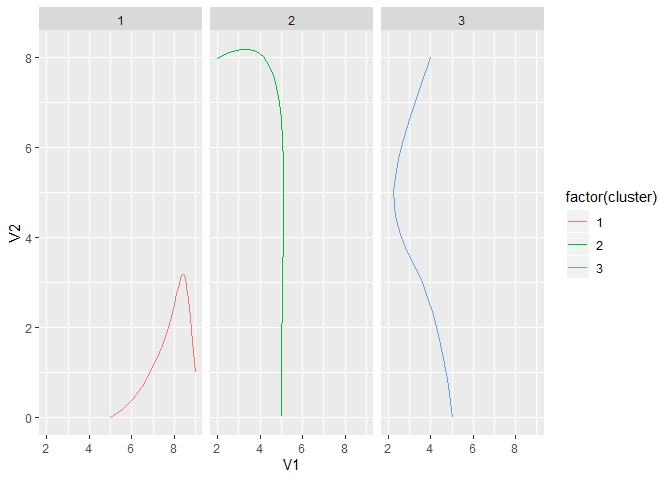
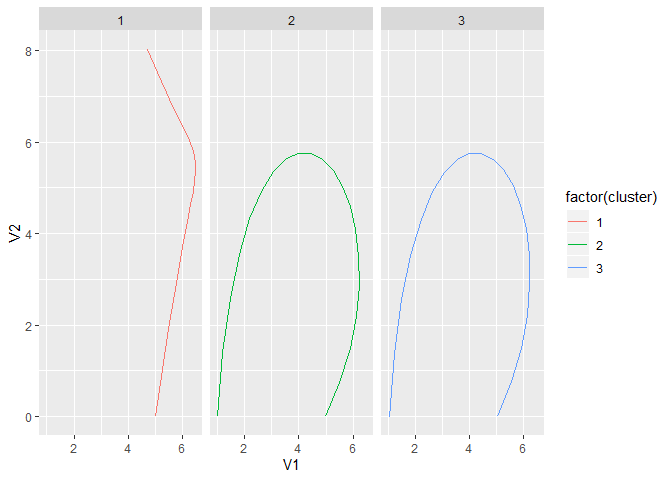
added an example to Read Me

diff --git a/README.md b/README.md
@@ -66,6 +66,7 @@ library(RouteIdentification)
 #> loading 'RouteIdentification'
 #> Warning: replacing previous import 'purrr::set_names' by 'magrittr::set_names'
 #> when loading 'RouteIdentification'
+library(readr)
 
 cluster_controls <- generate_random_cluster_controls(number_of_clusters = 3)
 
@@ -81,20 +82,80 @@ em_results <-
 #> 0 sec elapsed
 #> [1] 1
 #> [1] "e_step time"
-#> 0.61 sec elapsed
+#> 1.31 sec elapsed
 #> [1] -Inf
 #> [1] "m_step time"
-#> 0.05 sec elapsed
+#> 0.08 sec elapsed
 #> [1] 2
 #> [1] "e_step time"
-#> 0.75 sec elapsed
-#> [1] 3533.686
+#> 0.95 sec elapsed
+#> [1] -606.7129
 #> [1] "m_step time"
 #> 0.03 sec elapsed
 #> [1] 3
 #> [1] "e_step time"
-#> 0.76 sec elapsed
-#> 2.2 sec elapsed
+#> 1.02 sec elapsed
+#> [1] -601.8881
+#> [1] "m_step time"
+#> 0.06 sec elapsed
+#> [1] 4
+#> [1] "e_step time"
+#> 0.82 sec elapsed
+#> [1] -594.2849
+#> [1] "m_step time"
+#> 0.04 sec elapsed
+#> [1] 5
+#> [1] "e_step time"
+#> 1.01 sec elapsed
+#> [1] -592.1602
+#> [1] "m_step time"
+#> 0.05 sec elapsed
+#> [1] 6
+#> [1] "e_step time"
+#> 1.23 sec elapsed
+#> [1] -592.253
+#> [1] "m_step time"
+#> 0.03 sec elapsed
+#> [1] 7
+#> [1] "e_step time"
+#> 1.13 sec elapsed
+#> [1] -592.3209
+#> [1] "m_step time"
+#> 0.08 sec elapsed
+#> [1] 8
+#> [1] "e_step time"
+#> 0.93 sec elapsed
+#> [1] -592.3846
+#> [1] "m_step time"
+#> 0.05 sec elapsed
+#> [1] 9
+#> [1] "e_step time"
+#> 1 sec elapsed
+#> [1] -592.3089
+#> [1] "m_step time"
+#> 0.05 sec elapsed
+#> [1] 10
+#> [1] "e_step time"
+#> 1.08 sec elapsed
+#> [1] -592.1239
+#> [1] "m_step time"
+#> 0.04 sec elapsed
+#> [1] 11
+#> [1] "e_step time"
+#> 1.56 sec elapsed
+#> [1] -592.4983
+#> [1] "m_step time"
+#> 0.05 sec elapsed
+#> [1] 12
+#> [1] "e_step time"
+#> 1.08 sec elapsed
+#> [1] -592.5133
+#> [1] "m_step time"
+#> 0.03 sec elapsed
+#> [1] 13
+#> [1] "e_step time"
+#> 0.78 sec elapsed
+#> 14.53 sec elapsed
 
 
 cluster_means <-
@@ -109,12 +170,13 @@ nested_trajectory_data %>%
   filter(prob == max(prob)) %>%
   ungroup() %>%
   count(cluster, pred_cluster)
-#> # A tibble: 3 x 3
+#> # A tibble: 4 x 3
 #>   cluster pred_cluster     n
 #>     <dbl>        <dbl> <int>
-#> 1       1            2     7
-#> 2       2            3     4
-#> 3       3            1     9
+#> 1       1            1     5
+#> 2       2            2     4
+#> 3       2            3     2
+#> 4       3            1     9
 
 nested_trajectory_data %>%
   bind_cols(as_tibble(em_results$Pik)) %>%
@@ -154,12 +216,13 @@ new_data_fit <- fit_new_data(new_trajectory_data, em_results)
 
 new_data_fit %>%
   count(cluster, cluster_assigned)
-#> # A tibble: 3 x 3
+#> # A tibble: 4 x 3
 #>   cluster cluster_assigned     n
 #>     <dbl>            <dbl> <int>
-#> 1       1                2    43
-#> 2       2                3    41
-#> 3       3                1    36
+#> 1       1                1    33
+#> 2       2                2    42
+#> 3       2                3     4
+#> 4       3                1    41
 ```
 
 ``` r
@@ -169,15 +232,78 @@ fit_new_data(new_trajectory_data, nfl_em_results) %>%
 #> # A tibble: 120 x 5
 #>    curve_i cluster           data cluster_assigned route_name
 #>      <int>   <dbl> <list<df[,2]>>            <dbl> <chr>     
-#>  1       1       1       [40 x 2]               26 deep_out  
-#>  2       2       2       [37 x 2]               24 quick_out 
-#>  3       3       3       [41 x 2]                9 comeback  
-#>  4       4       2       [42 x 2]               24 quick_out 
-#>  5       5       1       [37 x 2]               26 deep_out  
-#>  6       6       3       [43 x 2]                9 comeback  
-#>  7       7       2       [49 x 2]               24 quick_out 
-#>  8       8       3       [47 x 2]                9 comeback  
-#>  9       9       3       [43 x 2]                9 comeback  
-#> 10      10       1       [38 x 2]               26 deep_out  
+#>  1       1       1       [37 x 2]               26 deep_out  
+#>  2       2       3       [44 x 2]               26 deep_out  
+#>  3       3       1       [48 x 2]               26 deep_out  
+#>  4       4       3       [36 x 2]               26 deep_out  
+#>  5       5       2       [45 x 2]               26 deep_out  
+#>  6       6       2       [39 x 2]               26 deep_out  
+#>  7       7       3       [47 x 2]               26 deep_out  
+#>  8       8       1       [47 x 2]               26 deep_out  
+#>  9       9       2       [49 x 2]               26 deep_out  
+#> 10      10       2       [46 x 2]               26 deep_out  
 #> # ... with 110 more rows
+```
+
+``` r
+# Use online sample data from big data bowl
+
+# list all the files
+#tracking_files <- list.files(path = "Data/", pattern = "tracking_.*\\.csv")
+
+# Load all the data
+routes_data <- 
+  # create the tibble with the file names
+  tibble(file_name = "https://raw.githubusercontent.com/nfl-football-ops/Big-Data-Bowl/master/Data/tracking_gameId_2017090700.csv") %>%
+  # read the data in nested
+  mutate(data = map(file_name, read_routes_from_csv)) %>%
+  dplyr::select(-file_name) %>% 
+  unnest(cols = c(data))
+
+# transform our curves
+routes_data <-
+  routes_data %>%
+  mutate(row = row_number()) %>%
+  mutate(data = pmap(list(data, team, direction_left, line_of_scrimmage), 
+                     ~ cut_plays(..1) %>%
+                       flip_field(., ..2, ..3, ..4)),
+         n = map_dbl(data, nrow)) %>%
+  filter(n >= 2) %>%
+  # left side of field is TRUE
+  mutate(data_same_sideline = purrr::map(data, 
+                                         ~ mutate(., 
+                                                  sof = 160/6 > first(y),
+                                                  y = if_else(sof, 160/3 - y, y),
+                                                  y = y - first(y)
+                                         ) %>%
+                                           dplyr::select(-sof)))  %>%
+  arrange(row)
+
+
+routes_data <-
+  routes_data %>%
+  ungroup() %>%
+  select(-row)
+
+
+routes_data %>%
+  mutate(curve_num = row_number()) %>%
+  unnest(cols = c(data_same_sideline)) %>%
+  select(curve_num, x, y) %>%
+  fit_new_data(nfl_em_results) %>%
+  left_join(cluster_route_map, by = c("cluster_assigned" = "cluster"))
+#> # A tibble: 394 x 4
+#>    curve_num           data cluster_assigned route_name
+#>        <int> <list<df[,2]>>            <dbl> <chr>     
+#>  1         1       [63 x 2]               30 dig/over  
+#>  2         2       [63 x 2]                5 go/seam   
+#>  3         3       [63 x 2]               27 corner    
+#>  4         4       [63 x 2]               11 flat      
+#>  5         5       [63 x 2]                5 go/seam   
+#>  6         6       [45 x 2]               27 corner    
+#>  7         7       [45 x 2]                4 flat      
+#>  8         8       [45 x 2]                2 dig/over  
+#>  9         9       [45 x 2]               18 flat      
+#> 10        10       [45 x 2]               29 deep_out  
+#> # ... with 384 more rows
 ```
